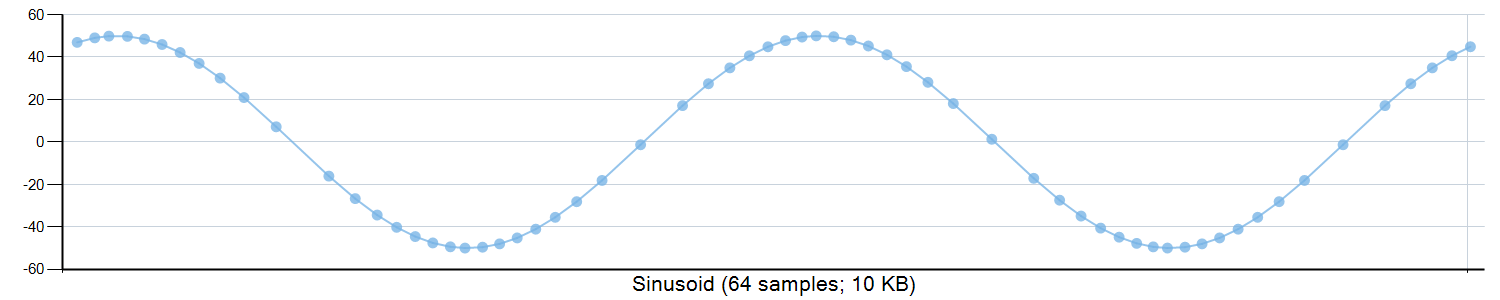
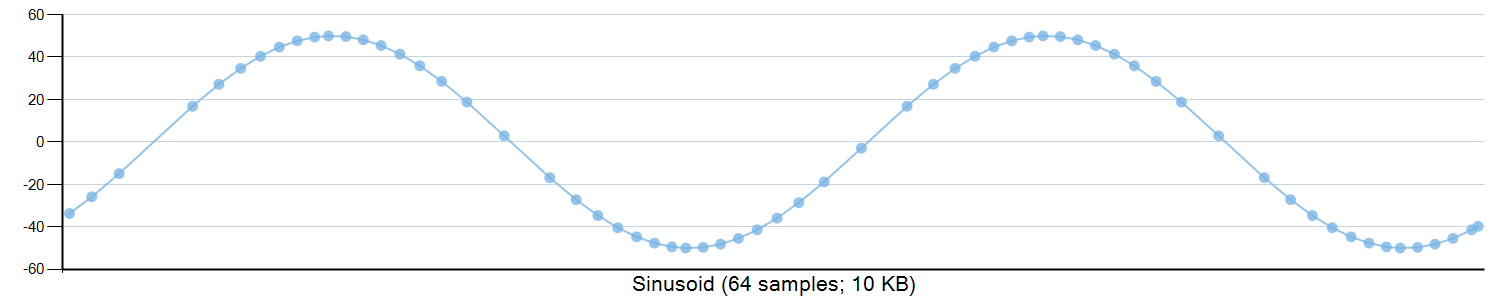
Wiki images

diff --git a/src/Aika.SampleApp/Startup.cs b/src/Aika.SampleApp/Startup.cs
@@ -89,7 +89,7 @@ namespace Aika.SampleApp {
             services.AddSignalR();
 
             //// Add our sample data generator.
-            //services.AddSingleton<IHostedService, SampleDataGenerator>();
+            services.AddSingleton<IHostedService, SampleDataGenerator>();
 
             services.AddSwaggerGen(x => {
                 x.SwaggerDoc("v1", new Swashbuckle.AspNetCore.Swagger.Info { Title = "Aika API", Version = "v1" });
